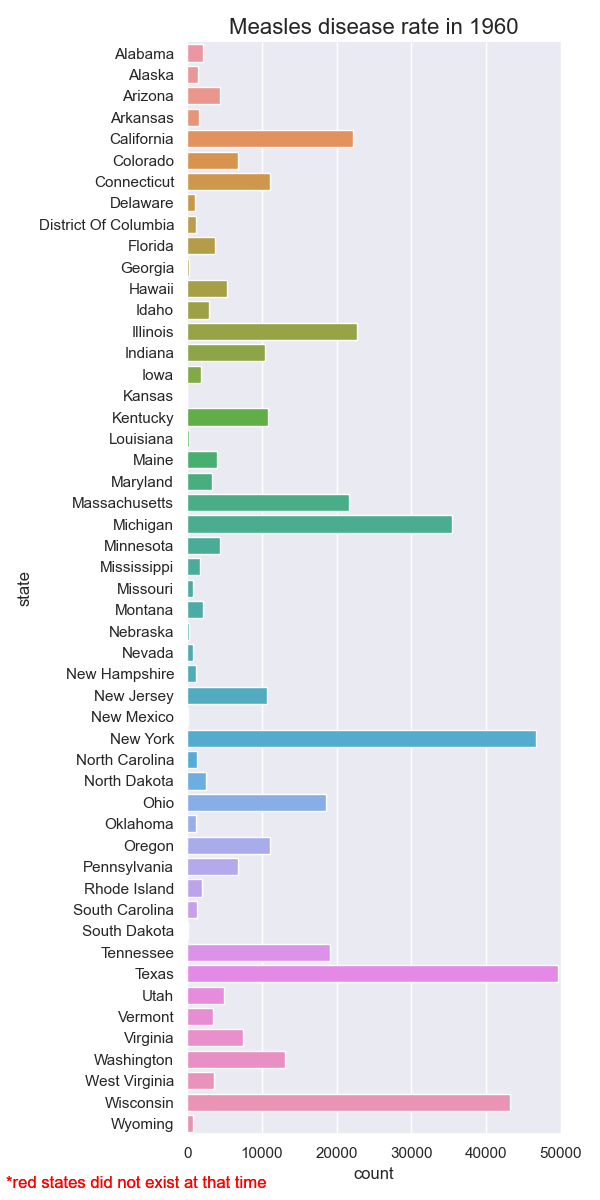
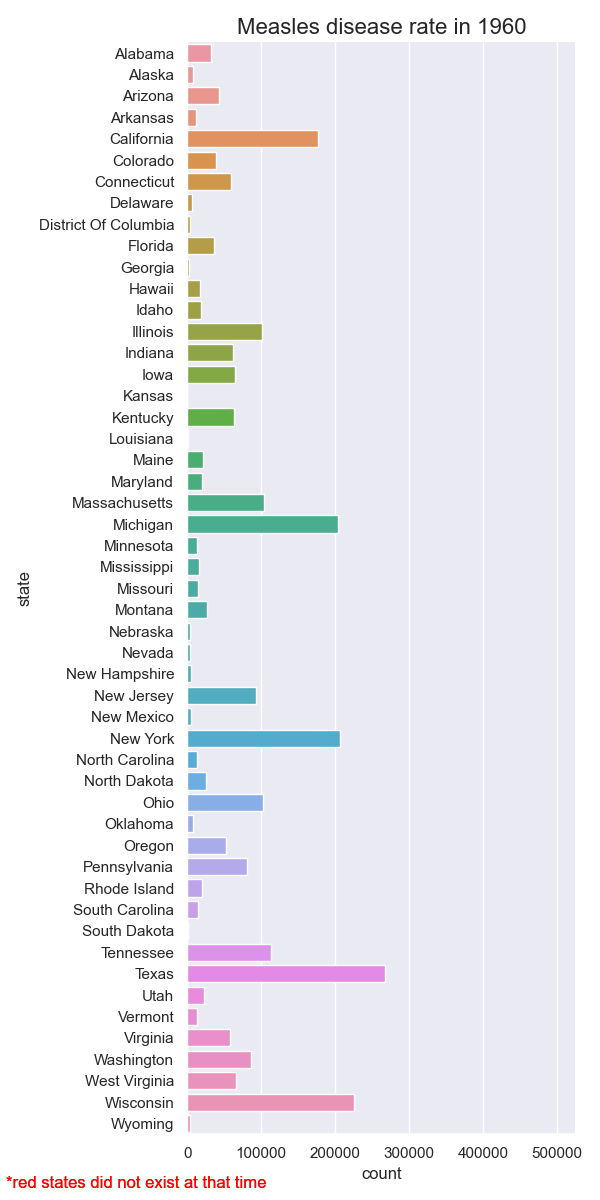
fix: Properly ploting for decades, fixed formating for all states

diff --git a/Task1/main.py b/Task1/main.py
@@ -21,8 +21,8 @@ disease = args.disease
 disease_ns = disease.replace(' ', '-')
 vaccine_year = vaccines_years[disease]
 
-if not os.path.exists(f'imgs/{disease_ns}'):
-    os.makedirs(f'imgs/{disease_ns}')
+if not os.path.exists(f'imgs/{disease_ns}/states'):
+    os.makedirs(f'imgs/{disease_ns}/states')
 
 ### 1
 df = pd.read_csv('us_contagious_diseases.csv', header=0, index_col=0)
@@ -34,16 +34,17 @@ df = df[df['disease'] == disease]
 
 for state in args.states:
     state_ns = state.replace(' ', '_')
-    if not os.path.exists(f'imgs/{disease_ns}/{state_ns}'):
-        os.makedirs(f'imgs/{disease_ns}/{state_ns}')
-
     state_df = df.drop(df[df['state'] != state].index)
     state_df['count square transform'] = np.sqrt(state_df['count'])
+
+    count_max = max(state_df['count']) 
+    sqrt_count_max = max(state_df['count square transform'])
 
     plot = sns.relplot(x=state_df['year'], y=state_df['count'], kind='line', marker='o')
     plt.axvline(vaccine_year, color='r')
     plt.annotate(f'{vaccine_year} - {disease} vaccine\nintroduction',
-                xy=(vaccine_year, 60000), xytext=(vaccine_year + 8, 70000),
+                xy=(vaccine_year, count_max * 3 / 4),
+                xytext=(vaccine_year + 8, count_max * 3 / 4 + count_max / 10),
                 arrowprops=dict(facecolor='black', shrink=0.05, headwidth=10, width=3))
     plot.fig.set_size_inches(10, 6)
     plot.set_ylabels(f'{disease} disease rate')
@@ -51,14 +52,15 @@ for state in args.states:
     plt.tight_layout()
     if (args.show_plot):
         plt.show()
-    plot.savefig(f'imgs/{disease_ns}/{state_ns}/{disease_ns}_disease_rate_in_{state_ns}.png')
+    plot.savefig(f'imgs/{disease_ns}/states/{disease_ns}_disease_rate_in_{state_ns}.png')
     plt.cla()
 
     plot = sns.relplot(x=state_df['year'], y=state_df['count square transform'],
                        kind='line', marker='o')
     plt.axvline(vaccine_year, color='r')
     plt.annotate(f'{vaccine_year} - {disease} vaccine\nintroduction',
-                xy=(vaccine_year, 200), xytext=(vaccine_year + 8, 250),
+                xy=(vaccine_year, sqrt_count_max * 3 / 4),
+                xytext=(vaccine_year + 8, sqrt_count_max * 3 / 4 + sqrt_count_max / 10),
                 arrowprops=dict(facecolor='black', shrink=0.05, headwidth=10, width=3))
     plot.fig.set_size_inches(10, 6)
     plot.set_ylabels(f'{disease} disease square rate')
@@ -66,18 +68,35 @@ for state in args.states:
     plt.tight_layout()
     if (args.show_plot):
         plt.show()
-    plot.savefig(f'imgs/{disease_ns}/{state_ns}/{disease_ns}_disease_rate_in_{state_ns}_sqrt_transform.png')
-    plt.cla()
+    plot.savefig(f'imgs/{disease_ns}/states/{disease_ns}_disease_rate_in_{state_ns}_sqrt_transform.png')
+    plt.close()
 
-plt.close()
+count_max = 0
+sqrt_count_max = 0
 
 for decade in args.decades:
-    deacde_df = df[df['year'] == decade]
+    deacde_df = df[(df['year'] >= decade) & (df['year'] < decade+10)]
+    deacde_df = deacde_df[['state', 'count']].groupby('state').sum()
+    deacde_df['count square transform'] = np.sqrt(deacde_df['count'])
+
+    decade_max = max(deacde_df['count'])
+    if (decade_max > count_max):
+        count_max = decade_max
+
+    decade_sqrt_max = max(deacde_df['count square transform'])
+    if (decade_sqrt_max > sqrt_count_max):
+        sqrt_count_max = decade_sqrt_max      
+
+count_max = (int(count_max / 25000) + 1) * 25000 
+sqrt_count_max = (int(sqrt_count_max / 100) + 1) * 100 
+
+for decade in args.decades:
+    deacde_df = df[(df['year'] >= decade) & (df['year'] < decade+10)]
     deacde_df = deacde_df[['state', 'count']].groupby('state').sum()
     deacde_df['count square transform'] = np.sqrt(deacde_df['count'])
 
     plot = sns.barplot(x=deacde_df['count'], y=deacde_df.index)
-    plt.xlim(0, 50000)
+    plt.xlim(0, count_max)
     if decade < 1960:
         plt.gca().get_yticklabels()[1].set_color("red")
         #plt.gca().get_yticklabels()[11].set_color("red")
@@ -93,7 +112,7 @@ for decade in args.decades:
     plt.cla()
 
     plot = sns.barplot(x=deacde_df['count square transform'], y=deacde_df.index)
-    plt.xlim(0, 250)
+    plt.xlim(0, sqrt_count_max)
     if decade < 1960:
         plt.gca().get_yticklabels()[1].set_color("red")
         #plt.gca().get_yticklabels()[11].set_color("red")
@@ -107,7 +126,6 @@ for decade in args.decades:
     plt.cla()
 
 plt.close()
-
 
 # box 
 plot = sns.boxplot(x=df['year'], y=df['state'], data=df['count'])
